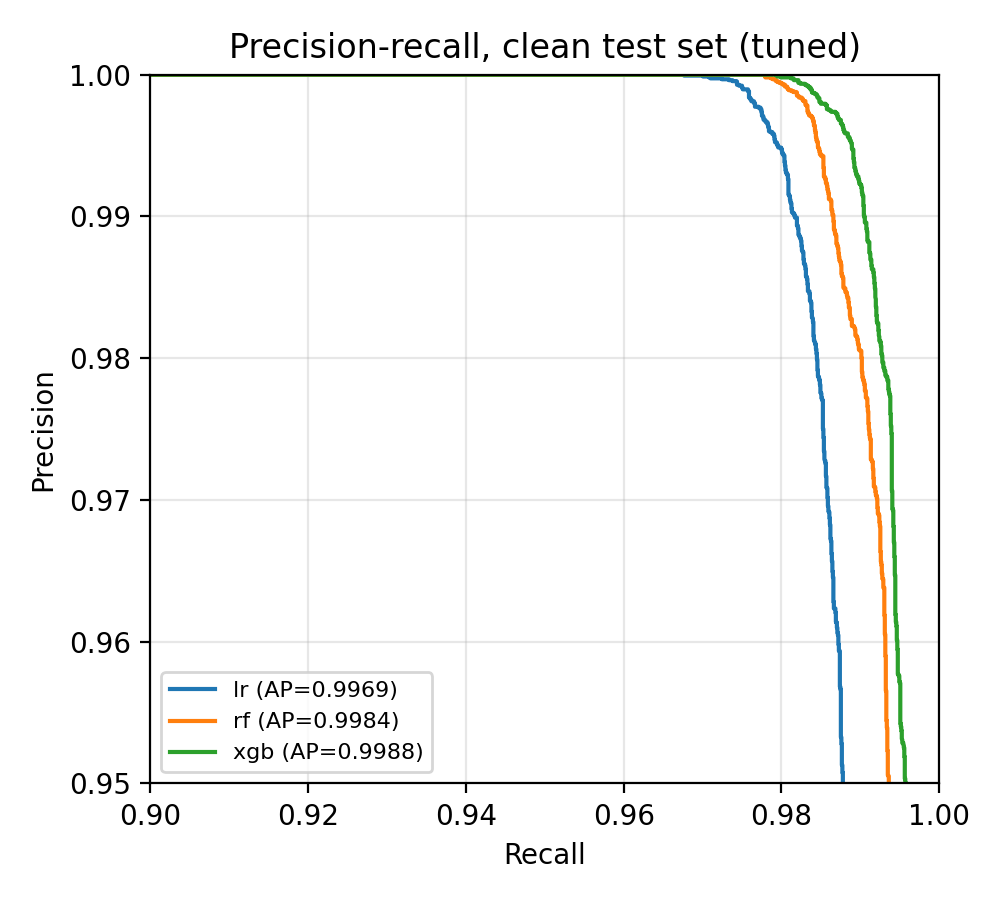
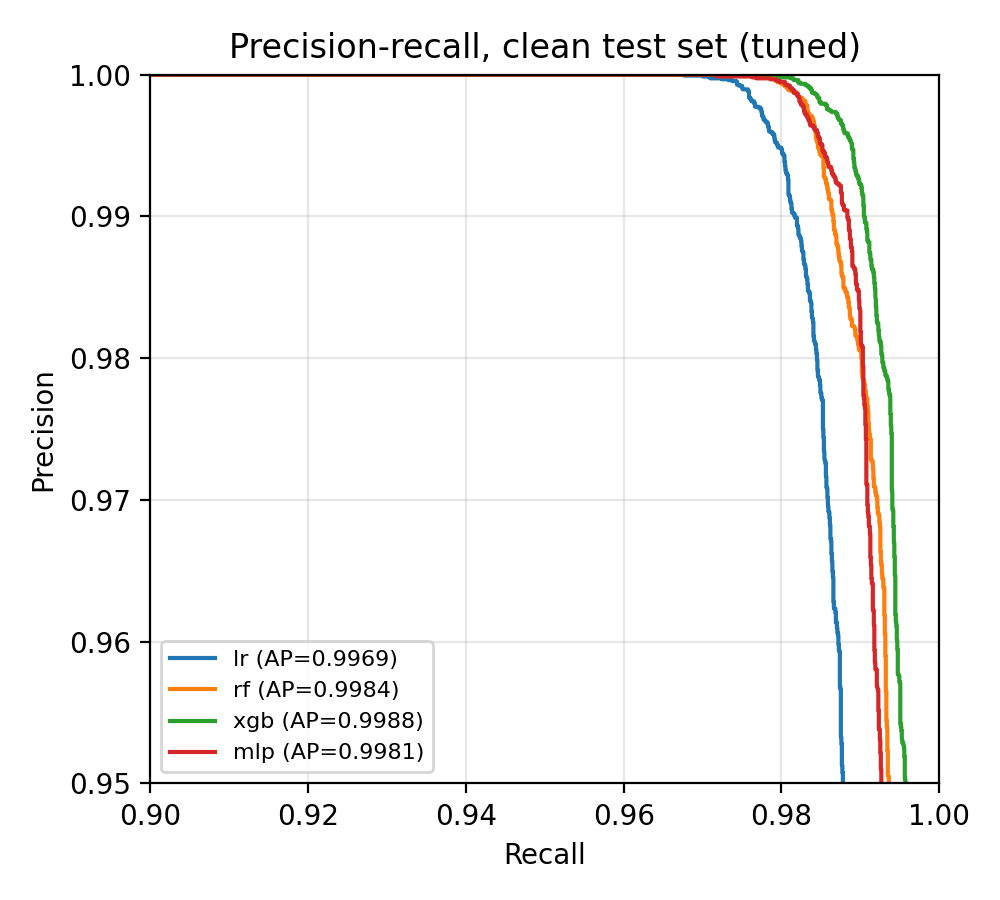
MLP made

diff --git a/src/train.py b/src/train.py
@@ -1,6 +1,6 @@
 """train.py - Step C/D/E (Person 1).
 
-Trains Logistic Regression, Random Forest and XGBoost (3 seeds each) as sklearn
+Trains Logistic Regression, Random Forest, XGBoost and a small MLP (3 seeds each) as sklearn
 Pipelines (StandardScaler + model), saves them to models/, writes clean-test
 metrics to results/baseline_metrics.csv and ROC/PR plots to figures/.
 
@@ -10,6 +10,8 @@ hyperparameters are used for RF/XGB; otherwise (or with --defaults) defaults.
 Run from the repo root:  python src/train.py
 Optional:                python src/train.py --models lr,rf
                          python src/train.py --defaults
+                         python src/train.py --models mlp     (adds/refreshes only the MLP;
+                                                               other models' rows are kept)
 """
 import argparse
 import json
@@ -23,6 +25,7 @@ import pandas as pd
 import yaml
 from sklearn.ensemble import RandomForestClassifier
 from sklearn.linear_model import LogisticRegression
+from sklearn.neural_network import MLPClassifier
 from sklearn.metrics import (accuracy_score, average_precision_score, f1_score,
                              precision_recall_curve, precision_score,
                              recall_score, roc_auc_score, roc_curve)
@@ -32,6 +35,7 @@ from xgboost import XGBClassifier
 
 ROOT = Path(__file__).resolve().parents[1]
 CFG = yaml.safe_load((ROOT / "configs" / "config.yaml").read_text())
+ALL_MODELS = ["lr", "rf", "xgb", "mlp"]
 THRESHOLD = CFG["threshold"]          # 0.5 everywhere; Person 2's ASR depends on it
 
 
@@ -45,6 +49,11 @@ def make_model(name: str, seed: int, params: dict | None = None) -> Pipeline:
                             subsample=0.8, colsample_bytree=0.8,
                             tree_method="hist", n_jobs=-1, random_state=seed,
                             eval_metric="logloss")
+    elif name == "mlp":
+        # small MLP; early stopping holds out 10% of train internally (test/val untouched)
+        clf = MLPClassifier(hidden_layer_sizes=(64, 32), early_stopping=True,
+                            validation_fraction=0.1, n_iter_no_change=10,
+                            max_iter=300, random_state=seed)
     else:
         raise ValueError(name)
     if params:                      # tuned hyperparameters from tune.py
@@ -106,7 +115,7 @@ def make_plots(test_scores: dict, y_te, fig_dir: Path, tag: str) -> None:
 
 def main() -> None:
     ap = argparse.ArgumentParser()
-    ap.add_argument("--models", default="lr,rf,xgb")
+    ap.add_argument("--models", default=",".join(ALL_MODELS))
     ap.add_argument("--defaults", action="store_true",
                     help="ignore results/best_params.json and use default hyperparameters")
     args = ap.parse_args()
@@ -125,14 +134,12 @@ def main() -> None:
     # Column order contract for Person 2 / 3
     (models_dir / "feature_columns.json").write_text(json.dumps(list(X_tr.columns)))
 
-    rows, test_scores = [], {}
+    rows = []
     for name in names:
         for seed in CFG["model_seeds"]:
             model = make_model(name, seed, best.get(name)).fit(X_tr, y_tr)
             joblib.dump(model, models_dir / f"{name}_seed{seed}.joblib")
             proba = model.predict_proba(X_te)[:, 1]
-            if seed == CFG["model_seeds"][0]:
-                test_scores[name] = proba
             m = metrics(y_te, proba)
             for k, v in m.items():
                 rows.append({"model": name, "family": "clean", "severity": 0,
@@ -140,7 +147,20 @@ def main() -> None:
             print(f"{name} seed{seed}: " + "  ".join(f"{k}={v:.4f}" for k, v in m.items()))
 
     out = res_dir / "baseline_metrics.csv"
-    pd.DataFrame(rows).to_csv(out, index=False)
+    new = pd.DataFrame(rows)
+    if out.exists():                # keep rows of models not retrained in this run
+        old = pd.read_csv(out)
+        new = pd.concat([old[~old.model.isin(names)], new], ignore_index=True)
+    new["model"] = pd.Categorical(new.model, ALL_MODELS, ordered=True)
+    new.sort_values(["model", "seed"], kind="stable").to_csv(out, index=False)
+
+    # plots use the seed-0 model of every model type that exists on disk
+    seed0 = CFG["model_seeds"][0]
+    test_scores = {}
+    for n in ALL_MODELS:
+        f = models_dir / f"{n}_seed{seed0}.joblib"
+        if f.exists():
+            test_scores[n] = joblib.load(f).predict_proba(X_te)[:, 1]
     make_plots(test_scores, y_te, ROOT / CFG["paths"]["figures_dir"], tag)
     print(f"\nSaved models to {models_dir}, metrics to {out}, plots to figures/")
 
